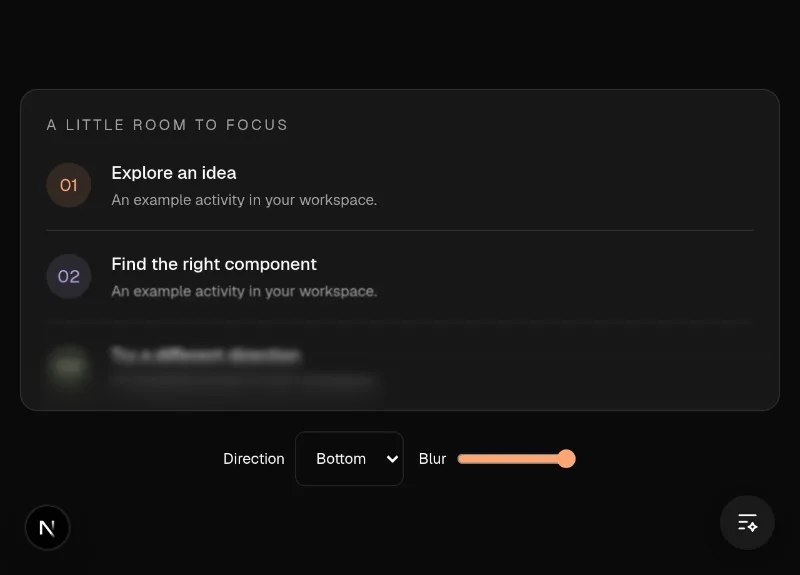
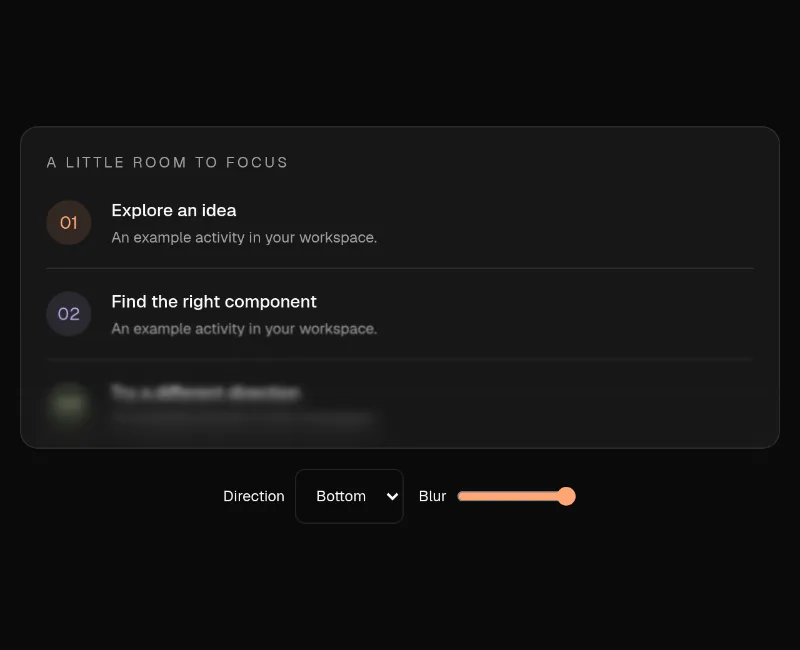
Keep component previews steady through loading and scrolling (#21)

diff --git a/scripts/smoke-homepage-scene.ts b/scripts/smoke-homepage-scene.ts
@@ -4,6 +4,7 @@ import { parseArgs } from "node:util"
 import puppeteer, { type Frame, type HTTPRequest } from "puppeteer-core"
 import { galleryBase } from "./lib/gallery-base"
 import { sitePath } from "../lib/config"
+import { observeHandoffs, assertStableHandoff } from "./lib/handoff-probe"
 
 const { values } = parseArgs({ options: { base: { type: "string", default: "http://localhost:3000" } } })
 const base = galleryBase(values.base!)
@@ -12,6 +13,7 @@ async function main() {
   const browser = await puppeteer.launch({ executablePath: process.env.CHROME_PATH ?? "/usr/bin/google-chrome", args: ["--no-sandbox", "--disable-dev-shm-usage", "--blink-settings=primaryPointerType=4,availablePointerTypes=4,primaryHoverType=2,availableHoverTypes=2"] })
   try {
     const page = await browser.newPage()
+    await observeHandoffs(page)
     const errors: string[] = []
     page.on("pageerror", (error) => errors.push(String(error)))
     await page.setViewport({ width: 1440, height: 1000 })
@@ -100,6 +102,7 @@ async function main() {
     await page.waitForFunction(() => document.querySelectorAll('[data-scene-card] iframe').length === 0)
     await budget()
     await page.waitForSelector('[data-home-example="smoothui/progressive-blur"] iframe[data-ready="1"]')
+    for (const id of ["smoothui/progressive-blur", "smoothui/card-swipe-deck"]) await assertStableHandoff(page, id)
     assert.equal(await page.$('#live-components button ::-p-text(Interact)'), null, "homepage demos require no interaction gate")
     const blur = frame("progressive-blur")
     await blur.select('[aria-label="Blur direction"]', "top")
@@ -126,6 +129,18 @@ async function main() {
     await page.keyboard.press("ArrowLeft")
     await deck.waitForFunction(() => document.querySelector('[role="status"]')!.textContent!.includes("Passed: Keep it calm."))
     await deck.locator('[aria-label="Reset cards"]').click()
+    // Explicit playback isolates visibility cleanup from the shared three-frame budget.
+    await page.click('[aria-label="Pause Progressive blur"]')
+    await page.click('[aria-label="Play Progressive blur"]')
+    await page.waitForSelector('[data-home-example="smoothui/progressive-blur"] iframe[data-ready="1"]')
+    const partialFrame = frame("progressive-blur")
+    await page.$eval('[data-home-example="smoothui/progressive-blur"] [data-gallery-preview]', (element) => {
+      const bounds = element.getBoundingClientRect()
+      scrollTo(0, scrollY + bounds.top - innerHeight + bounds.height * 0.1)
+    })
+    await wait(250)
+    assert.ok(page.frames().includes(partialFrame), "a demo stays mounted while its last 10% is visible")
+    await page.$eval("#live-components", (element) => element.scrollIntoView({ block: "start" }))
     // Scroll away and back with the new frame request held: its previous ready state must not leak.
     await page.$eval('[data-home-example="oc/beam-card"]', (element) => element.scrollIntoView({ block: "center" }))
     await page.waitForSelector('[data-home-example="oc/beam-card"] iframe[data-ready="1"]')
@@ -191,6 +206,7 @@ async function main() {
     assert.ok(await page.$$eval('[data-scene-card] img', (images) => images.length === 3 && images.every((image) => image.complete && image.naturalWidth > 0)), "paused examples have useful generated posters")
     await page.click('[data-scene-card="smoothui/pixel-brush-canvas"] button ::-p-text(Play)')
     await page.waitForSelector('[data-scene-card="smoothui/pixel-brush-canvas"] iframe[data-ready="1"]')
+    assert.equal(await page.$eval('[data-scene-card="smoothui/pixel-brush-canvas"] iframe', (frame) => getComputedStyle(frame).transitionProperty), "none", "reduced motion disables the handoff fade")
     await frame("pixel-brush-canvas").locator('[aria-label="Use lime ink"]').click()
     assert.equal(await frame("pixel-brush-canvas").$eval('[aria-label="Use lime ink"]', (button) => button.getAttribute("aria-pressed")), "true")
     await page.click(`nav a[href="${sitePath("/guide")}"]`)
@@ -219,6 +235,37 @@ async function main() {
     assert.equal(await failure.$$eval('[data-scene-card] img', (images) => images.length), 3)
     console.log("✓ homepage scene: failed-frame poster/source fallback and useful no-JavaScript composition")
     await failure.close()
+
+    const delayed = await browser.newPage()
+    await observeHandoffs(delayed)
+    await delayed.setViewport({ width: 1440, height: 1000 })
+    await delayed.setCacheEnabled(false)
+    await delayed.setRequestInterception(true)
+    const fonts: HTTPRequest[] = []
+    let holdFonts = true
+    let receiveFont!: () => void
+    const firstFont = new Promise<void>((resolve) => { receiveFont = resolve })
+    const holdFont = (request: HTTPRequest) => {
+      if (holdFonts && request.resourceType() === "font" && request.frame()?.url().includes("/preview/smoothui/progressive-blur?")) { fonts.push(request); receiveFont() }
+      else void request.continue()
+    }
+    delayed.on("request", holdFont)
+    await delayed.goto(base, { waitUntil: "domcontentloaded" })
+    await delayed.$eval("#live-components", (element) => element.scrollIntoView({ block: "start" }))
+    await Promise.race([firstFont, wait(10000).then(() => { throw new Error("No preview font request intercepted") })])
+    await delayed.evaluate(async () => { await document.fonts.ready })
+    await wait(100)
+    assert.equal(await delayed.$eval('[data-home-example="smoothui/progressive-blur"] iframe', (frame) => getComputedStyle(frame).opacity), "0", "a demo stays behind its poster while real font requests are pending")
+    holdFonts = false
+    await Promise.all(fonts.map((request) => request.continue()))
+    delayed.off("request", holdFont)
+    await delayed.setRequestInterception(false)
+    await delayed.waitForSelector('[data-home-example="smoothui/progressive-blur"] iframe[data-ready="1"]')
+    await assertStableHandoff(delayed, "smoothui/progressive-blur")
+    await delayed.waitForFunction(() => getComputedStyle(document.querySelector('[data-home-example="smoothui/progressive-blur"] iframe')!).opacity === "1")
+    assert.equal(await delayed.$eval('[data-home-example="smoothui/progressive-blur"] iframe', (frame) => getComputedStyle(frame).transitionDuration), "0.2s")
+    await delayed.close()
+    console.log("✓ homepage handoff: settled initial layout, stable card geometry, real delayed fonts, short reveal fade and reduced-motion override")
   } finally { await browser.close() }
 }
 main().catch((error: unknown) => { console.error(error); process.exitCode = 1 })

diff --git a/components/demos/showcase-demos.tsx b/components/demos/showcase-demos.tsx
@@ -1,6 +1,6 @@
 "use client"
 
-import { useEffect, useRef, useState, type CSSProperties } from "react"
+import { useLayoutEffect, useRef, useState, type CSSProperties } from "react"
 import DitherChart, { type DitherChartVariant } from "./vendor/smoothui/dither-chart"
 import ProgressiveBlur, { type ProgressiveBlurDirection } from "./vendor/smoothui/progressive-blur"
 import DotMorphButton from "./vendor/smoothui/dot-morph-button"
@@ -20,13 +20,17 @@ export function ShowcaseDemo({ id, compact = false }: { id: string; compact?: bo
   const [direction, setDirection] = useState<ProgressiveBlurDirection>("bottom")
   const [intensity, setIntensity] = useState(1)
   const [clicked, setClicked] = useState(false)
-  useEffect(() => {
+  useLayoutEffect(() => {
+    const element = root.current!
+    const style = getComputedStyle(element)
+    // Initialize from this frame's content box before it can be painted.
+    setWidth(Math.max(80, element.clientWidth - parseFloat(style.paddingLeft) - parseFloat(style.paddingRight)))
     const observer = new ResizeObserver(([entry]) => setWidth(Math.max(80, entry.contentRect.width)))
-    observer.observe(root.current!)
+    observer.observe(element)
     return () => observer.disconnect()
   }, [])
   return (
-    <div ref={root} data-showcase-demo={id} className={`flex min-h-screen w-full flex-col items-center justify-center ${compact ? "gap-2 px-3 py-2" : "gap-4 px-4 py-4"}`} style={{ "--color-brand": "#ffa674", "--color-brand-secondary": "#e88c57", "--color-on-brand": "#16120f" } as CSSProperties}>
+    <div ref={root} data-showcase-demo={id} className={`flex min-h-screen w-full flex-col items-center justify-center ${compact ? "gap-2 px-3 py-2" : "gap-4 px-4 py-4"}`} style={{ containerType: "inline-size", "--color-brand": "#ffa674", "--color-brand-secondary": "#e88c57", "--color-on-brand": "#16120f" } as CSSProperties}>
       {id === "smoothui/pixel-brush-canvas" ? <PixelCanvasDemo width={width} compact={compact} /> : id === "smoothui/scrubber" ? <ScrubberDemo compact={compact} /> : id === "smoothui/card-swipe-deck" ? <SwipeDeckDemo width={width} /> : id === "smoothui/dither-chart" ? <>
         <DitherChart data={data} variant={variant} palette={palette} pixelSize={2} width={Math.floor(width)} height={Math.round(Math.min(compact ? 174 : 220, width * 0.31))} label="Interface activity" caption="Illustrative data · try a chart style" />
         <div role="group" aria-label="Chart style" className="flex flex-wrap justify-center gap-2">
@@ -37,11 +41,11 @@ export function ShowcaseDemo({ id, compact = false }: { id: string; compact?: bo
         {!compact ? <p role="status" className="text-xs text-muted-foreground">{clicked ? "A real click, a little feedback. Click again to reset." : "Hover to stretch the dot. Click to try the button."}</p> : null}
       </> : id === "smoothui/progressive-blur" ? <>
         <div className="relative isolate w-full overflow-hidden rounded-xl border bg-[#171717]">
-          <div tabIndex={0} aria-label="Scrollable activity example" style={{ height: Math.min(256, Math.max(136, width * 0.5)) }} className="overflow-y-auto p-5 focus-visible:outline-2 focus-visible:outline-offset-[-3px] focus-visible:outline-ring">
+          <div tabIndex={0} aria-label="Scrollable activity example" style={{ height: "clamp(136px, 50cqw, 256px)" }} className="overflow-y-auto p-5 focus-visible:outline-2 focus-visible:outline-offset-[-3px] focus-visible:outline-ring">
             <p className="mb-5 text-xs uppercase tracking-[0.18em] text-muted-foreground">A little room to focus</p>
             {["Explore an idea", "Find the right component", "Try a different direction", "Make it feel like you", "Build with real pieces", "Keep refining", "Ready for your project"].map((label, i) => <div key={label} className="mb-4 flex items-center gap-4 border-b border-white/10 pb-4"><span className="flex size-9 shrink-0 items-center justify-center rounded-full text-sm" style={{ background: `${palette[i % 3]}20`, color: palette[i % 3] }}>0{i + 1}</span><div><p className="text-sm font-medium">{label}</p><p className="mt-1 text-xs text-muted-foreground">An example activity in your workspace.</p></div></div>)}
           </div>
-          <ProgressiveBlur direction={direction} intensity={intensity} blur={16} layers={6} className={direction === "bottom" ? "!top-auto h-28" : ""} />
+          <ProgressiveBlur direction={direction} intensity={intensity} blur={16} layers={6} fadeIn={false} className={direction === "bottom" ? "!top-auto h-28" : ""} />
         </div>
         <div className="flex flex-wrap items-center justify-center gap-3">
           <label className="flex items-center gap-2 text-xs">Direction<select aria-label="Blur direction" value={direction} onChange={(event) => setDirection(event.target.value as ProgressiveBlurDirection)} className={`${control} bg-background`}><option value="bottom">Bottom</option><option value="top">Top</option><option value="radial">Radial</option></select></label>

diff --git a/scripts/lib/handoff-probe.ts b/scripts/lib/handoff-probe.ts
@@ -1,0 +1,44 @@
+import assert from "node:assert/strict"
+import type { Page } from "puppeteer-core"
+
+/** Observe actual child layout at the ready signal, then across the following painted frames. */
+export async function observeHandoffs(page: Page) {
+  await page.evaluateOnNewDocument(`(() => {
+    if (top !== self) return;
+    window.__handoffs = [];
+    addEventListener('message', (event) => {
+      if (event.origin !== location.origin || event.data?.type !== 'design-infra-preview' || event.data.status !== 'ready') return;
+      const source = event.source;
+      const frame = source?.frameElement;
+      const card = frame?.closest('[data-home-example]');
+      if (!card || !['smoothui/progressive-blur', 'smoothui/card-swipe-deck'].includes(card.dataset.homeExample)) return;
+      const target = source.document.querySelector('[aria-label="Scrollable activity example"], [aria-label="Swipeable card deck"]');
+      if (!target) return;
+      const record = { id: card.dataset.homeExample, samples: [], done: false };
+      window.__handoffs.push(record);
+      const capture = () => {
+        if (!frame.isConnected) { record.done = true; return; }
+        const content = target.getBoundingClientRect();
+        const outer = card.getBoundingClientRect();
+        record.samples.push({ fonts: source.document.fonts.status, rect: [content.x, content.y, content.width, content.height, outer.width, outer.height, outer.top + scrollY] });
+        if (record.samples.length < 20) requestAnimationFrame(capture);
+        else record.done = true;
+      };
+      capture();
+    });
+  })()`)
+}
+
+export async function assertStableHandoff(page: Page, id: string) {
+  await page.waitForFunction((id) => {
+    const records = (window as unknown as { __handoffs: { id: string; done: boolean }[] }).__handoffs
+    return records.filter((record) => record.id === id).at(-1)?.done
+  }, {}, id)
+  const record = await page.evaluate((id) => {
+    const records = (window as unknown as { __handoffs: { id: string; samples: { fonts: string; rect: number[] }[] }[] }).__handoffs
+    return records.filter((record) => record.id === id).at(-1)!
+  }, id)
+  assert.equal(record.samples.length, 20, `${id}: observe the complete handoff`)
+  const first = record.samples[0].rect
+  assert.ok(record.samples.every((sample) => sample.fonts === "loaded" && sample.rect.every((value, i) => Math.abs(value - first[i]) < 1)), `${id}: content and outer card must stay in position after reveal: ${JSON.stringify(record.samples)}`)
+}

diff --git a/components/site/gallery-preview.tsx b/components/site/gallery-preview.tsx
@@ -90,7 +90,7 @@ function InteractivePreview({ src, title, width, height, scale, interact, onFail
     const timeout = window.setTimeout(() => { if (!receivedReady) onFailure() }, 20000)
     return () => { window.removeEventListener("message", message); clearTimeout(timeout) }
   }, [src, onFailure])
-  return <iframe ref={frame} src={src} title={`${title} interactive demo`} data-ready={ready ? "1" : undefined} tabIndex={interact ? 0 : -1} sandbox="allow-scripts allow-same-origin" className="absolute top-0 left-0 border-0 bg-[#141414]" style={{ width, height, transform: scale === undefined ? undefined : `scale(${scale})`, transformOrigin: "top left", pointerEvents: interact ? "auto" : "none", opacity: ready ? 1 : 0 }} />
+  return <iframe ref={frame} src={src} title={`${title} interactive demo`} data-ready={ready ? "1" : undefined} tabIndex={interact && ready ? 0 : -1} sandbox="allow-scripts allow-same-origin" className="absolute top-0 left-0 border-0 bg-[#141414] transition-opacity duration-200 ease-out motion-reduce:transition-none" style={{ width, height, transform: scale === undefined ? undefined : `scale(${scale})`, transformOrigin: "top left", pointerEvents: interact && ready ? "auto" : "none", opacity: ready ? 1 : 0 }} />
 }
 
 /** Frames exist only while playing. Removing them also stops rAF, timers, WebGL and audio. */
@@ -129,8 +129,10 @@ export function GalleryPreview({
     const element = box.current
     if (!element || !moving) return
     const observer = new IntersectionObserver(
-      ([entry]) => visible(id, order, entry.isIntersecting && entry.intersectionRatio >= 0.2),
-      { threshold: [0, 0.2] },
+      // Start at the edge and keep the live surface until it leaves completely.
+      // Swapping back to a poster at 20% visibility causes a pop during normal scrolling.
+      ([entry]) => visible(id, order, entry.isIntersecting),
+      { threshold: 0 },
     )
     observer.observe(element)
     const resize = new ResizeObserver(([entry]) => setWidth(entry.contentRect.width))

diff --git a/components/site/preview-shell.tsx b/components/site/preview-shell.tsx
@@ -25,12 +25,27 @@ class DemoBoundary extends React.Component<{ children: React.ReactNode }, { fail
 }
 function Ready({ children }: { children: React.ReactNode }) {
   React.useEffect(() => {
-    signal("ready")
+    let cancelled = false
+    let firstFrame = 0
+    let secondFrame = 0
+    // ResizeObserver-driven demos need a layout pass after hydration. Revealing them
+    // from this effect exposes their default dimensions before that measurement lands.
+    void document.fonts.ready.then(() => {
+      if (cancelled) return
+      firstFrame = requestAnimationFrame(() => {
+        secondFrame = requestAnimationFrame(() => { if (!cancelled) signal("ready") })
+      })
+    })
     // Native hero demos relay pointer position without an overlay intercepting their controls.
-    if (new URLSearchParams(location.search).get("presentation") !== "hero" || parent === window) return
+    const relay = new URLSearchParams(location.search).get("presentation") === "hero" && parent !== window
     const move = (event: PointerEvent) => parent.postMessage({ type: "design-infra-pointer", x: event.clientX / innerWidth, y: event.clientY / innerHeight }, location.origin)
-    window.addEventListener("pointermove", move, { passive: true })
-    return () => window.removeEventListener("pointermove", move)
+    if (relay) window.addEventListener("pointermove", move, { passive: true })
+    return () => {
+      cancelled = true
+      cancelAnimationFrame(firstFrame)
+      cancelAnimationFrame(secondFrame)
+      window.removeEventListener("pointermove", move)
+    }
   }, [])
   return children
 }

diff --git a/app/page.tsx b/app/page.tsx
@@ -32,7 +32,7 @@ export default async function Home() {
     const entry = catalog.find((entry) => entry.id === id)!
     const descriptor = hostedPreview(id)!
     return { id, name, href: new URL(entryPage(id)).pathname.slice(BASE_PATH.length), poster: entry.preview ? previewSrc(entry.preview) : undefined,
-      descriptor: hero ? { ...descriptor, src: `${descriptor.src}&presentation=hero`, width: id.endsWith("dither-chart") ? 600 : 400, height: id.endsWith("dither-chart") ? 390 : 320 } : id.endsWith("progressive-blur") ? { ...descriptor, height: 520 } : descriptor }
+      descriptor: hero ? { ...descriptor, src: `${descriptor.src}&presentation=hero`, width: id.endsWith("dither-chart") ? 600 : 400, height: id.endsWith("dither-chart") ? 390 : 320 } : descriptor }
   }
   const scene = [example("smoothui/dither-chart", "Dither chart", true), example("smoothui/scrubber", "Scrub to reshape", true), example("smoothui/pixel-brush-canvas", "Draw something", true)]
   const featured = [example("smoothui/progressive-blur", "Progressive blur"), example("smoothui/card-swipe-deck", "Swipe a direction"), example("oc/beam-card", "Beam card"), example("oc/kinetic-field", "Kinetic field")]

diff --git a/DESIGN.md b/DESIGN.md
@@ -16,7 +16,7 @@ The warm accent is scoped to `.home-motion-hero` as `--site-motion-accent`. It d
 
 Immediately below the header, feature Progressive Blur, Card Swipe Deck, Beam Card and Kinetic Field in a generous two-column gallery. Progressive Blur demonstrates a CSS surface over scrollable content, with direction and intensity controls outside the decorative blur. It should not be presented as a loader or an endlessly animating effect. The two SmoothUI examples the user singled out are recorded in favorites with their use cases. The user asked to retain Beam and Kinetic on 2026-10-16. The small orbit loader was too underwhelming for the homepage: keep it available in the Loading catalog, but use distinctive, directly usable examples here. Homepage frames accept pointer and keyboard input as soon as they play; do not require an extra Interact click. The swipe deck uses original illustrated cards, supports dragging and arrow keys, and has explicit pass, keep and reset buttons with a visible result. Pixel drawing supports keyboard input, ink selection and undo. Scrubbing must visibly change the example tile, rather than only a number.
 
-Preview containers explicitly fill their card width. Minimum height must never widen an aspect-ratio frame beyond its card; verify outer-card containment as well as the iframe's internal layout. Readiness belongs to each mounted iframe: a returning demo remains behind its poster until that frame signals ready. Hosted posters capture the whole neutral stage, with the same surface and framing as the live demo; do not use a light design-system capture behind a dark homepage demo.
+Preview containers explicitly fill their card width. Minimum height must never widen an aspect-ratio frame beyond its card; verify outer-card containment as well as the iframe's internal layout. Readiness belongs to each mounted iframe: a returning demo remains behind its poster until that frame signals ready. Signal readiness after fonts load and two animation frames let initial measurements settle. The blur sample uses CSS container sizing, so it has its final height before hydration; its decorative blur is applied immediately. Fade the ready iframe in over 200ms, with no transition for reduced motion. Start previews at the viewport edge and retain them until fully offscreen; do not swap a partially visible demo back to a poster. Keep poster and native stage dimensions in the shared manifest rather than homepage-only overrides. Hosted posters capture the whole neutral stage, with the same surface and framing as the live demo; do not use a light design-system capture behind a dark homepage demo.
 
 All homepage frames share one GalleryPlayback provider and its three-visible-preview budget. Load only explicit local adapters. Frames unmount offscreen, when paused and while the tab is hidden; reduced motion starts with generated posters and offers explicit play. Pause all also disables the scene's entrance and cursor response. The scene has a useful static composition before JavaScript, and parent bundles contain descriptors rather than vendor demo implementations. Keep the original Kinetic Field available in its detail page and the featured gallery.
 
